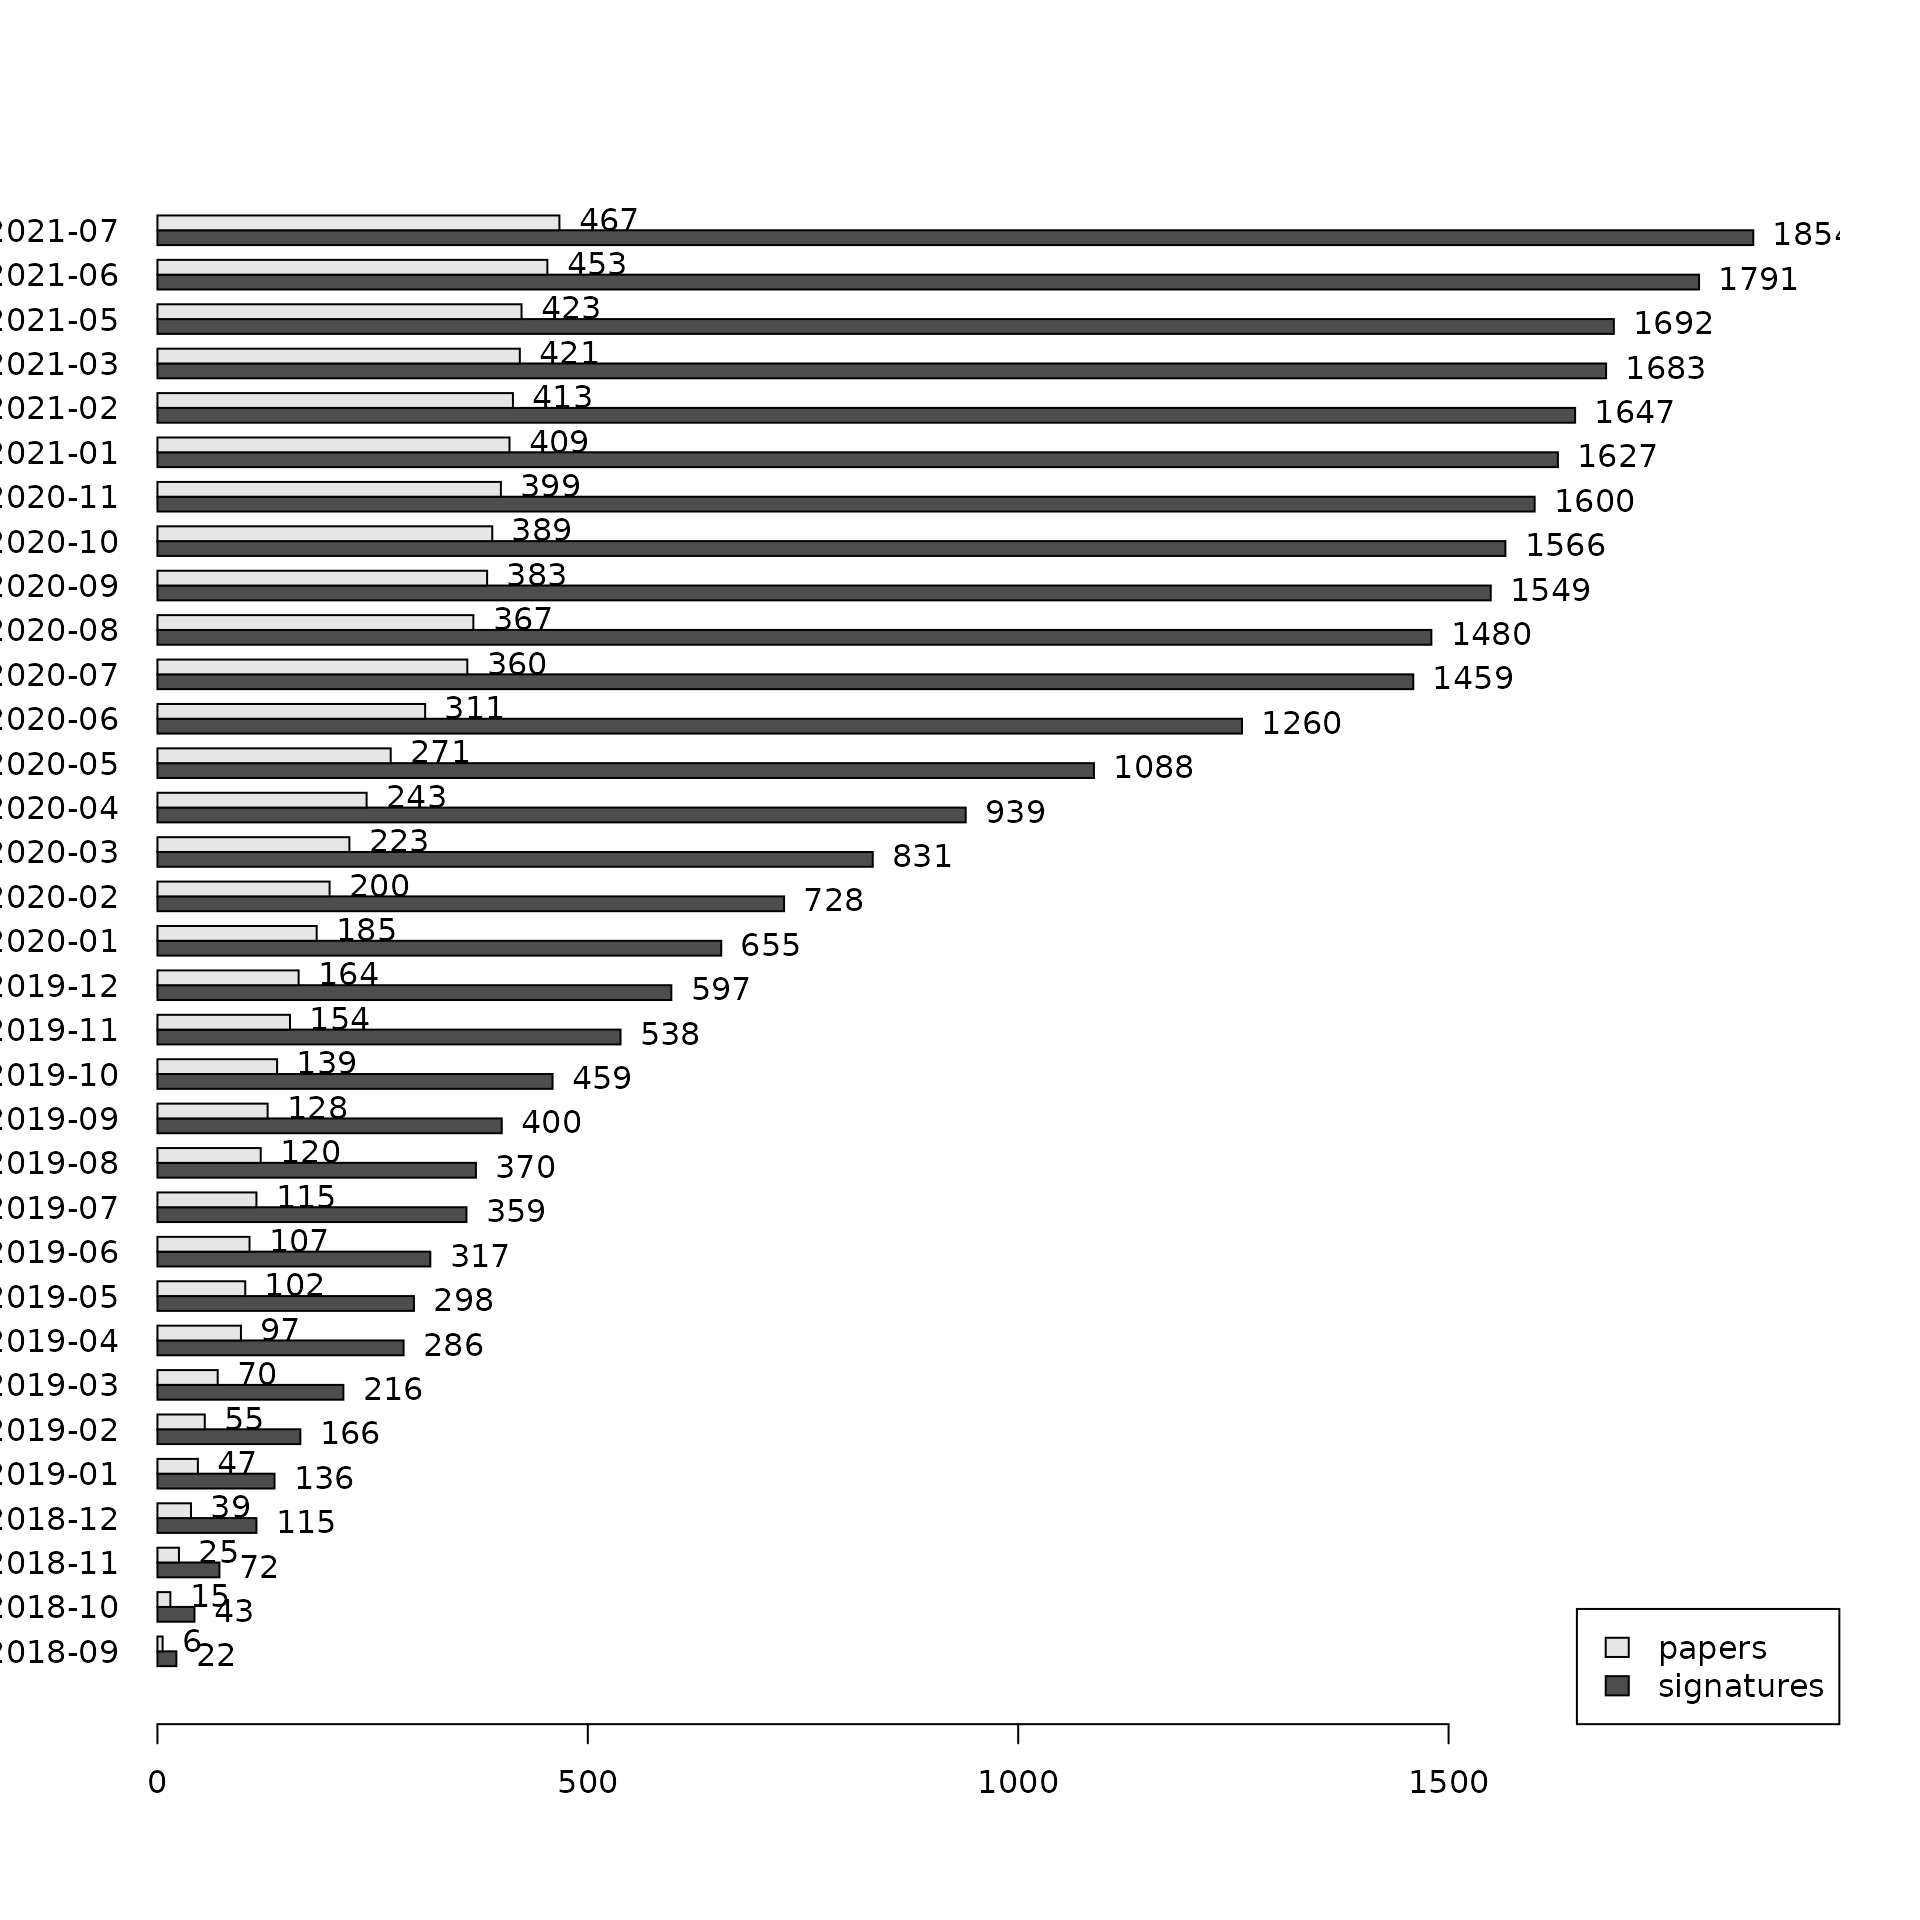
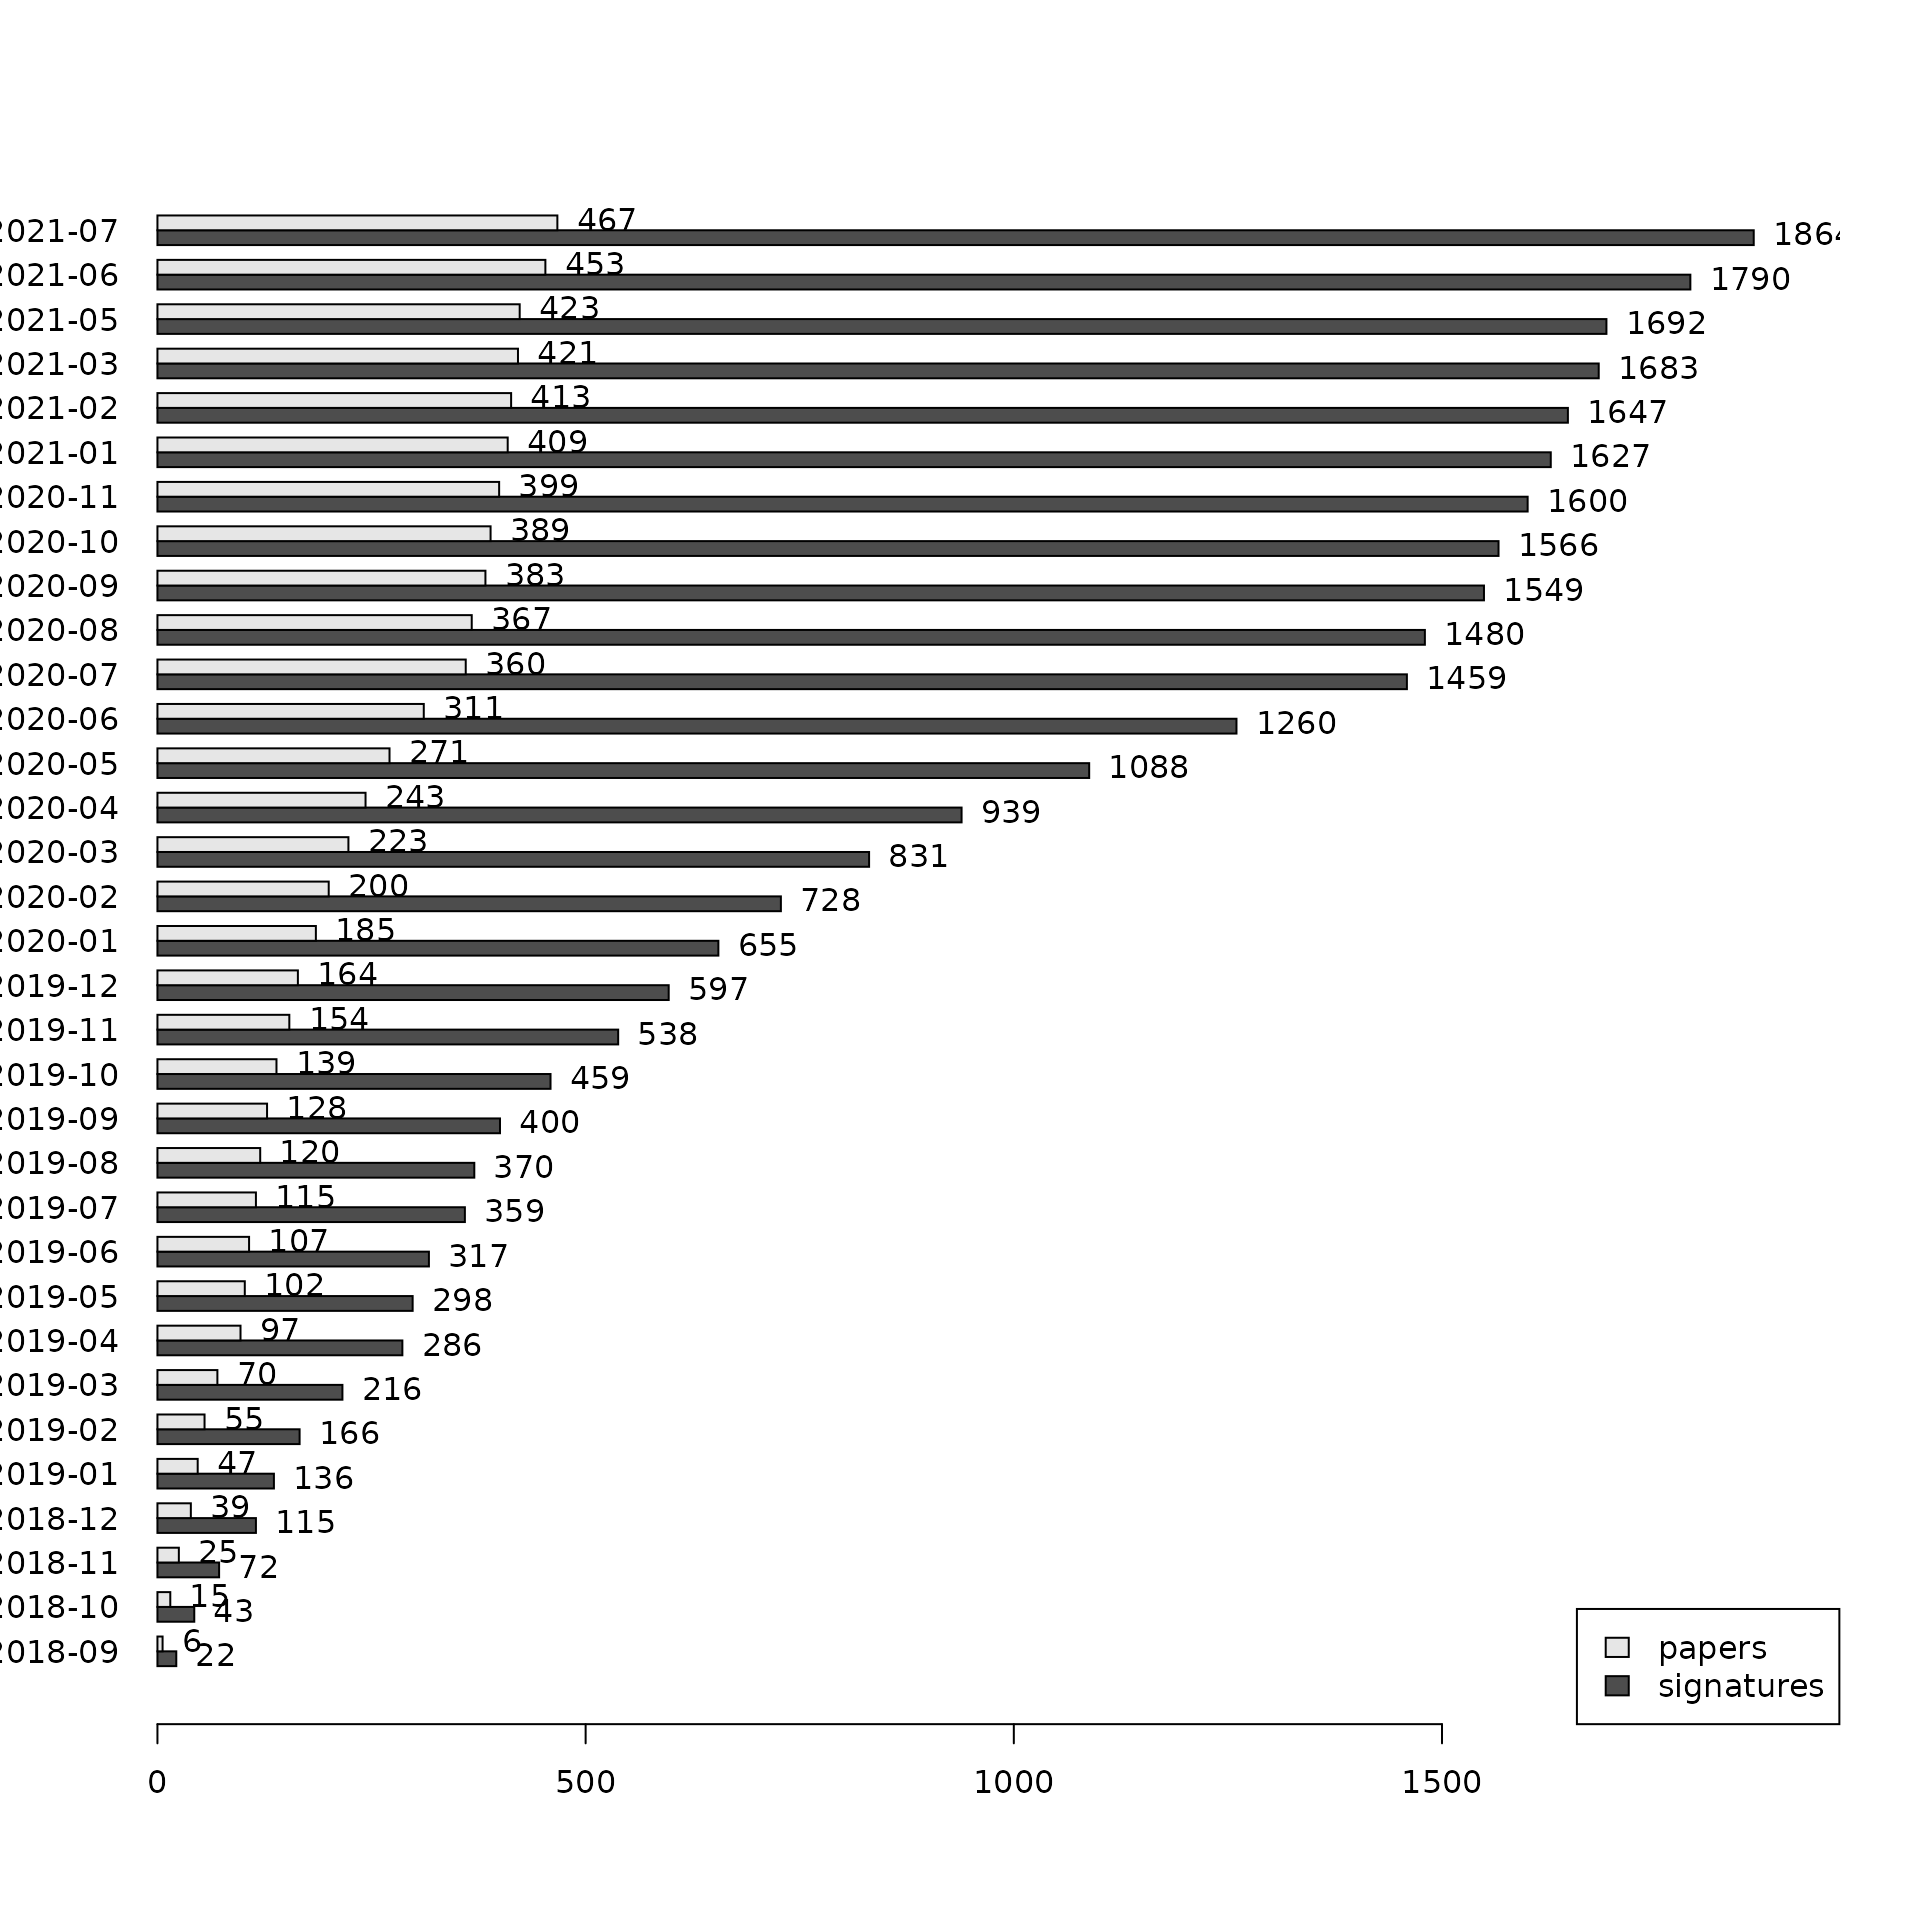
Deploying to gh-pages from  @ 9c0e06229ef63542f44c7cb56ad935cc12b6708c 🚀

diff --git a/articles/BugSigDBStats.html b/articles/BugSigDBStats.html
@@ -85,7 +85,7 @@
 <p>Get bulk export from bugsigdb.org:</p>
 <div class="sourceCode" id="cb2"><pre class="downlit">
 <span class="va">full.dat</span> <span class="op">&lt;-</span> <span class="fu">bugsigdbr</span><span class="fu">::</span><span class="fu"><a href="https://rdrr.io/pkg/bugsigdbr/man/importBugSigDB.html">importBugSigDB</a></span><span class="op">(</span><span class="op">)</span></pre></div>
-<pre><code>## using temporary cache /tmp/Rtmpbb74Ga/BiocFileCache</code></pre>
+<pre><code>## using temporary cache /tmp/RtmppS5x2T/BiocFileCache</code></pre>
 <pre><code>## 
 ## ── Column specification ────────────────────────────────────────────────────────
 ## cols(
@@ -129,7 +129,7 @@
 ## )</code></pre>
 <div class="sourceCode" id="cb7"><pre class="downlit">
 <span class="fu"><a href="https://rdrr.io/r/base/dim.html">dim</a></span><span class="op">(</span><span class="va">full.dat</span><span class="op">)</span></pre></div>
-<pre><code>## [1] 1911   45</code></pre>
+<pre><code>## [1] 1922   45</code></pre>
 <div class="sourceCode" id="cb9"><pre class="downlit">
 <span class="fu"><a href="https://rdrr.io/r/base/colnames.html">colnames</a></span><span class="op">(</span><span class="va">full.dat</span><span class="op">)</span></pre></div>
 <pre><code>##  [1] "Study"                      "Study design"              
@@ -166,7 +166,7 @@
 <pre><code>## [1] 479</code></pre>
 <div class="sourceCode" id="cb13"><pre class="downlit">
 <span class="fu"><a href="https://rdrr.io/r/base/nrow.html">nrow</a></span><span class="op">(</span><span class="va">full.dat</span><span class="op">)</span></pre></div>
-<pre><code>## [1] 1911</code></pre>
+<pre><code>## [1] 1922</code></pre>
 <p>Publication date of the curated papers:</p>
 <div class="sourceCode" id="cb15"><pre class="downlit">
 <span class="va">pmids</span> <span class="op">&lt;-</span> <span class="va">pmids</span><span class="op">[</span><span class="op">!</span><span class="fu"><a href="https://rdrr.io/r/base/NA.html">is.na</a></span><span class="op">(</span><span class="va">pmids</span><span class="op">)</span><span class="op">]</span>
@@ -196,7 +196,7 @@
 <span class="co"># more realistic estimation of number of signatures curated</span>
 <span class="va">dat</span> <span class="op">&lt;-</span> <span class="fu"><a href="../reference/stripEmptySignatures.html">stripEmptySignatures</a></span><span class="op">(</span><span class="va">full.dat</span><span class="op">)</span>
 <span class="fu"><a href="https://rdrr.io/r/base/nrow.html">nrow</a></span><span class="op">(</span><span class="va">dat</span><span class="op">)</span></pre></div>
-<pre><code>## [1] 1854</code></pre>
+<pre><code>## [1] 1864</code></pre>
 <p>Papers containing only empty UP and DOWN signatures (under curation?):</p>
 <div class="sourceCode" id="cb20"><pre class="downlit">
 <span class="fu"><a href="https://rdrr.io/r/base/sets.html">setdiff</a></span><span class="op">(</span><span class="va">pmids</span>, <span class="fu"><a href="https://rdrr.io/r/base/unique.html">unique</a></span><span class="op">(</span><span class="va">dat</span><span class="op">[</span>,<span class="st">"PMID"</span><span class="op">]</span><span class="op">)</span><span class="op">)</span></pre></div>
@@ -220,7 +220,7 @@
 <span class="fu"><a href="https://rdrr.io/r/base/table.html">table</a></span><span class="op">(</span><span class="va">dat</span><span class="op">[</span>,<span class="st">"Revision editor"</span><span class="op">]</span><span class="op">)</span></pre></div>
 <pre><code>## 
 ##                        Claregrieve1                 Claregrieve1,Fatima 
-##                                  73                                   2 
+##                                  74                                   2 
 ##                    Cynthia Anderson       Cynthia Anderson,WikiWorks743 
 ##                                  33                                   3 
 ##                              Fatima          Fatima,Rimsha,WikiWorks743 
@@ -228,11 +228,11 @@
 ##                 Fatima,WikiWorks743                      Fatima,Yu Wang 
 ##                                   8                                   6 
 ##                         Itslanapark                           Kwekuamoo 
-##                                   3                                   3 
+##                                   4                                   3 
 ##                       Lorakasselman                            Lwaldron 
 ##                                   2                                   7 
 ##               Lwaldron,WikiWorks743                       Madhubani Dey 
-##                                   1                                  38 
+##                                   1                                  37 
 ##                             Manuela                 Rimsha,WikiWorks743 
 ##                                  11                                   1 
 ##                         Samara.Khan                              Tislam 
